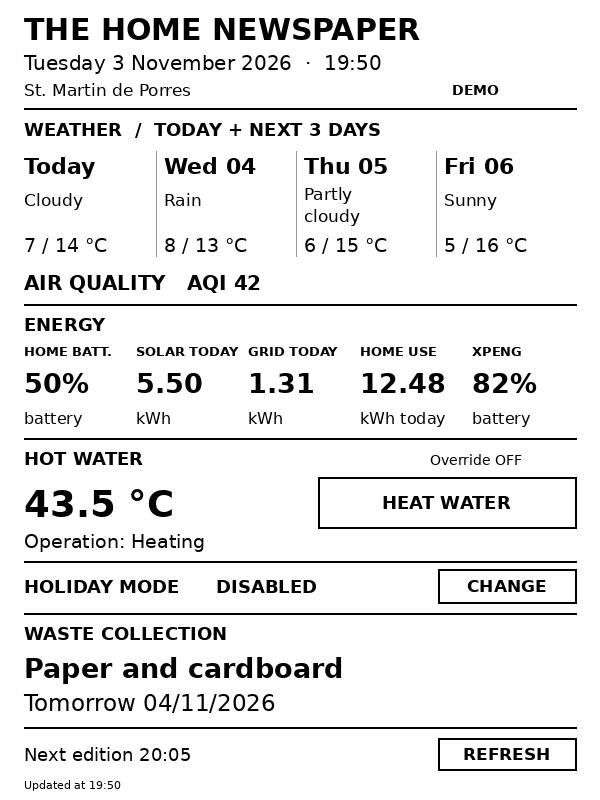
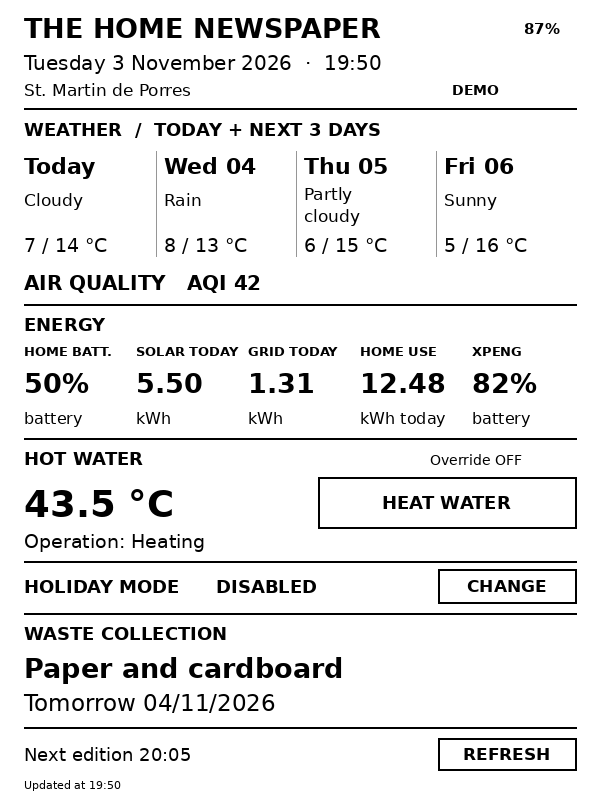
Show Nook battery percentage in the newspaper header using client telemetry

Changed region(s): [[0.03, 0.0, 0.69, 0.0625], [0.87, 0.0312, 0.93, 0.0625]]

diff --git a/tests/test_server.py b/tests/test_server.py
@@ -5,7 +5,7 @@ sys.path.insert(0, str(Path(__file__).resolve().parents[1]/'nook_casa'))
 import server as s
 from PIL import Image
 now=datetime(2026,11,3,19,50,tzinfo=s.TZ)
-data={'demo':True,'occasion':'St. Martin de Porres','aqi':'42','operation':'Heating','spanky':'82','soc':'50','consumption':'12.48','solar':'5.5','grid':'1.307','acs':'43.5','force':'off','holiday':'off','waste_name':'Paper and cardboard','waste_date':'Tomorrow 04/11/2026','forecast':[{'datetime':(now+timedelta(days=i)).isoformat(),'condition':c,'temperature':t,'templow':l} for i,(c,t,l) in enumerate([('cloudy',14,7),('rainy',13,8),('partlycloudy',15,6),('sunny',16,5)])]}
+data={'demo':True,'nook_battery':87,'occasion':'St. Martin de Porres','aqi':'42','operation':'Heating','spanky':'82','soc':'50','consumption':'12.48','solar':'5.5','grid':'1.307','acs':'43.5','force':'off','holiday':'off','waste_name':'Paper and cardboard','waste_date':'Tomorrow 04/11/2026','forecast':[{'datetime':(now+timedelta(days=i)).isoformat(),'condition':c,'temperature':t,'templow':l} for i,(c,t,l) in enumerate([('cloudy',14,7),('rainy',13,8),('partlycloudy',15,6),('sunny',16,5)])]}
 png=s.render(data, now,s.refresh_interval(now))
 (Path(__file__).resolve().parents[1]/'docs/images/mockup.png').write_bytes(png)
 assert Image.open(io.BytesIO(png)).size==(600,800)
@@ -21,9 +21,10 @@ base=options['public_url']
 try:
     urllib.request.urlopen(base+'/api/display');raise AssertionError('unauthorized accepted')
 except urllib.error.HTTPError as e:assert e.code==401
-req=urllib.request.Request(base+'/api/display',headers={'ID':'nook-casa','access-token':options['api_key']})
+req=urllib.request.Request(base+'/api/display',headers={'ID':'nook-casa','access-token':options['api_key'],'Percent-Charged':'87'})
 with urllib.request.urlopen(req) as r:
     assert 'no-store' in r.headers['Cache-Control'];meta=json.load(r)
+assert b.nook_battery == 87
 assert 1 <= meta['refresh_rate'] <= 7200
 with urllib.request.urlopen(meta['image_url']) as r:assert Image.open(io.BytesIO(r.read())).size==(600,800)
 try:
@@ -43,5 +44,14 @@ b2.ha=ha
 s.occasion=lambda now: "St. Martin de Porres"
 result=b2.collect(now)
 assert result['waste_name']=='Paper + Glass' and result['waste_date']=='Tomorrow 04/11/2026'
+# Battery telemetry accepts zero and 100, rejects invalid or missing values,
+# and invalidates the short image cache when the displayed percentage changes.
+previous_revision = b.revision
+for raw, expected in [('0', 0), ('100', 100), ('101', None), ('-1', None), ('bad', None), ('', None)]:
+    request = urllib.request.Request(base+'/api/display', headers={
+        'ID':options['device_id'], 'access-token':options['api_key'], 'Percent-Charged':raw})
+    with urllib.request.urlopen(request) as response: json.load(response)
+    assert b.nook_battery == expected, (raw, b.nook_battery)
+    if expected == 0: assert b.revision != previous_revision
 http.shutdown()
 print('PASS: render 600x800, missing data, authentication, signature, cache headers, read-only API, forecast/calendar parsing')

diff --git a/nook_casa/server.py b/nook_casa/server.py
@@ -95,7 +95,8 @@ def render(data, now, interval):
         d.text((round(x), round(y)), value, font=f, fill=0)
     def line(y): d.line((24, y, 576, y), fill=0, width=2)
     def section(y, title): text(24, y, title, 18, True)
-    text(24, 12, "THE HOME NEWSPAPER", 30, True)
+    text(24, 12, "THE HOME NEWSPAPER", 27, True, 474)
+    aligned((508, 12, 576, 46), num(data.get("nook_battery"), 0, "%"), 15, True, True)
     weekdays_long = ["Monday", "Tuesday", "Wednesday", "Thursday", "Friday", "Saturday", "Sunday"]
     months = ["January", "February", "March", "April", "May", "June", "July", "August", "September", "October", "November", "December"]
     date_label = f"{weekdays_long[now.weekday()]} {now.day} {months[now.month-1]} {now.year}  ·  {now:%H:%M}"
@@ -229,6 +230,7 @@ class Bridge:
         self.revision = ""
         self.updated = 0
         self.last_contact = None
+        self.nook_battery = None
         self.command_lock = threading.Lock()
         self.requests = {}
         self.token = os.environ.get("SUPERVISOR_TOKEN", "")
@@ -290,7 +292,8 @@ class Bridge:
         with self.lock:
             if self.image and time.time()-self.updated < 45: return
             now = datetime.now(TZ)
-            data = self.collect(now)
+            data = dict(self.collect(now))
+            data["nook_battery"] = self.nook_battery
             self.image = render(data, now, refresh_interval(now))
             self.revision = hashlib.sha256(self.image).hexdigest()[:20]
             self.updated = time.time()
@@ -371,6 +374,14 @@ class Handler(BaseHTTPRequestHandler):
                     and self.headers.get("ID") == b.options["device_id"]):
                 return self.send(401, {"error":"unauthorized"})
             b.last_contact = datetime.now(TZ).isoformat()
+            raw_battery = self.headers.get("Percent-Charged", "").strip()
+            battery = int(raw_battery) if re.fullmatch(r"[0-9]{1,3}", raw_battery) else None
+            if battery is not None and battery > 100: battery = None
+            with b.lock:
+                if battery != b.nook_battery:
+                    b.nook_battery = battery
+                    b.updated = 0
+
             logging.info("Nook contact; battery=%s", re.sub(r"[^0-9]", "", self.headers.get("Percent-Charged", ""))[:3])
             b.refresh()
             expires = int(time.time()) + 7200

diff --git a/README.md b/README.md
@@ -10,6 +10,7 @@ Weather, energy, hot water, EV battery and upcoming waste collection on a 6-inch
 
 ## Features
 
+- Nook battery percentage in the top-right corner, updated at each device contact.
 - Full date and local time, major Italian holidays and a saint of the day when available.
 - Today's weather and a three-day forecast, minimum/maximum temperatures and numeric AQI.
 - Home battery charge, today's solar generation, grid import and total home consumption; XPENG battery charge.
@@ -53,7 +54,7 @@ Full instructions: **[INSTALLATION.md](docs/INSTALLATION.md)**.
 5. In the client, enter API Base URL `http://HOME_ASSISTANT_IP:8099/api`, the server's Device ID and the same local API key.
 6. Enable **Sleep between updates** and select the **TRMNL** screensaver in the original Nook settings. Verify a full sleep/wake cycle on the device.
 
-The public server **0.3.1** and client **0.2.2** use English interface text. Server 0.3.0 introduced configurable entities compared with the personal 0.2.2 server. Server and client version numbers are independent. [Configuration and entity mapping](docs/CONFIGURATION.md).
+The public server **0.3.2** and client **0.2.2** use English interface text. Server 0.3.0 introduced configurable entities compared with the personal 0.2.2 server. Server and client version numbers are independent. [Configuration and entity mapping](docs/CONFIGURATION.md).
 
 ## Security and command behavior
 

diff --git a/docs/CONFIGURATION.md b/docs/CONFIGURATION.md
@@ -46,3 +46,7 @@ The server searches the next 30 days, including today, and groups event titles o
 ## Limitations
 
 The page is an image, not a Lovelace dashboard; it does not execute JavaScript on the Nook. Missing data appears as `--` or an unavailable message. Manual refresh invalidates the renderer cache but does not force HA integrations to fetch new upstream data. Command confirmation uses an immediate state read; integrations that update more slowly may yield an uncertain result even when the command arrived.
+
+## Nook battery
+
+The small percentage at the top right is the Nook battery, read from the client's `Percent-Charged` header at each refresh. It is independent of the home and EV batteries. Only integer values from 0 through 100 are accepted; missing or invalid values appear as `--`. No Home Assistant entity is needed. The percentage remains static while the Nook sleeps.

diff --git a/docs/MOCKUP.md b/docs/MOCKUP.md
@@ -4,6 +4,8 @@
 
 The image is generated by the same Pillow renderer used by the server. It contains sample data, not readings from a real home.
 
+The small percentage on the first line is the Nook battery (87% in this demo).
+
 The Energy section has five columns: home battery, solar today, grid import today, home consumption today and XPENG. HEAT WATER, CHANGE and REFRESH are framed and centered within their rows.
 
 ## Client touch regions

diff --git a/CHANGELOG.md b/CHANGELOG.md
@@ -1,5 +1,11 @@
 # Changelog
 
+## Server 0.3.2
+
+- Show the Nook battery percentage in the top-right corner of the first line.
+- Read the existing client battery header; no APK update required.
+- Refresh the cached image when the reported percentage changes; display `--` if unavailable.
+
 ## Server 0.3.1 / client 0.2.2 — English edition
 
 - Translate all project documentation, app metadata and installation messages into English.
